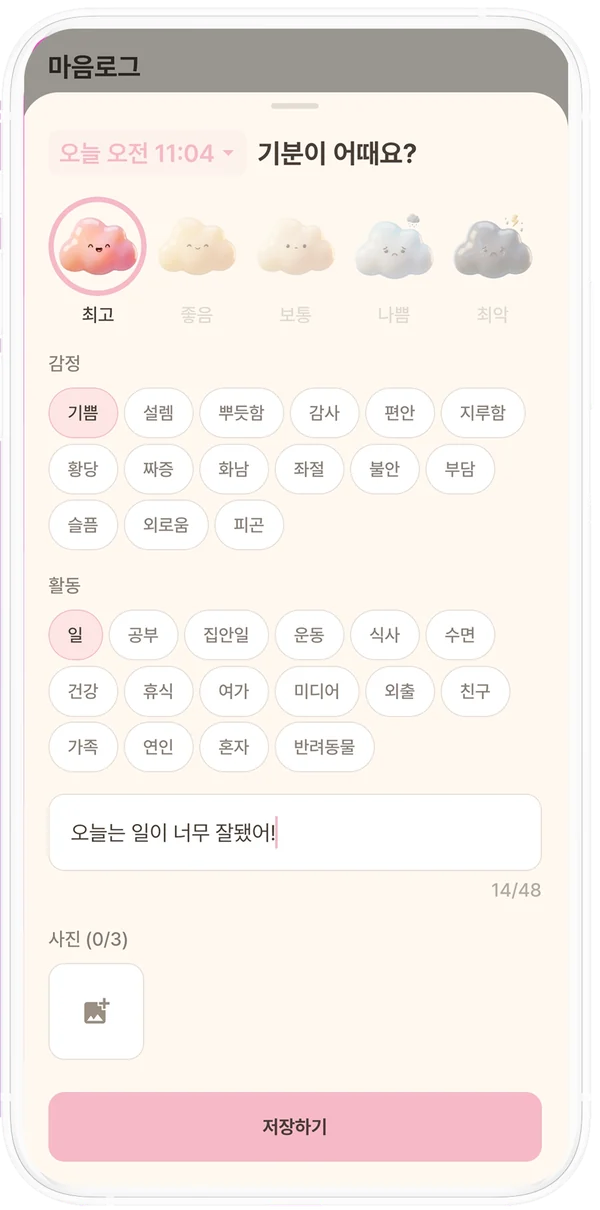
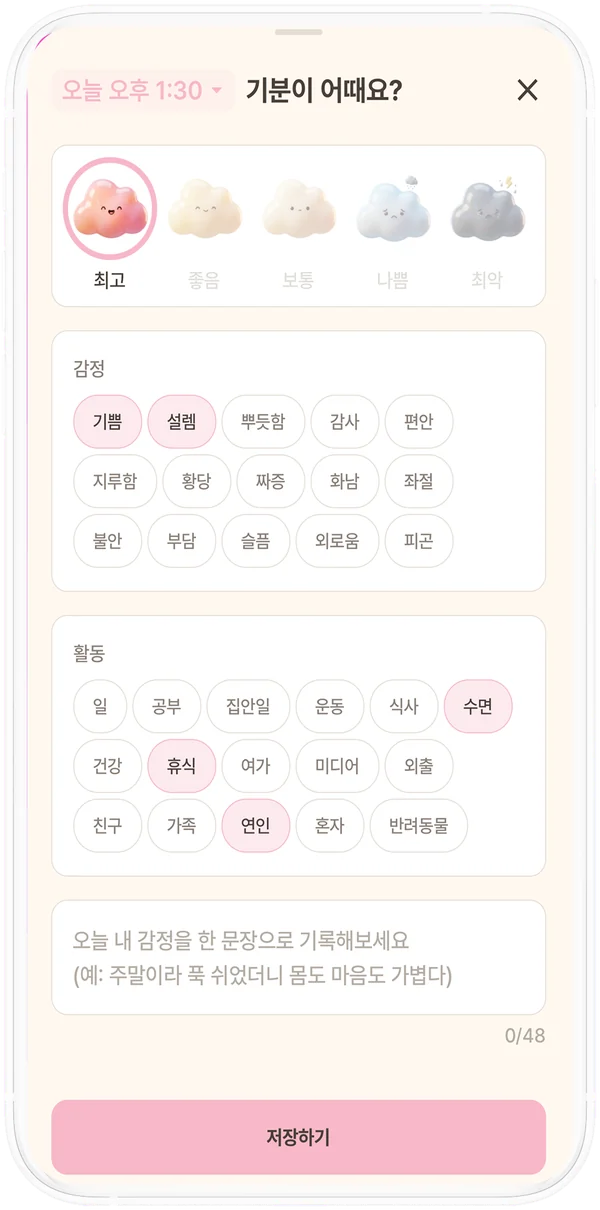
한국어 2번 화면(기록) 새 스크린샷으로 · 화면 그림에도 버전 표시
Claude-Session: https://claude.ai/code/session_017HUExyZ58Y2Jv744zBtPxR

diff --git a/ko/index.html b/ko/index.html
@@ -28,7 +28,7 @@
   <link rel="alternate" hreflang="x-default" href="https://mauvelabsinc.com/">
   <link rel="preload" href="../assets/fraunces.woff2" as="font" type="font/woff2" crossorigin>
   <link rel="stylesheet" href="https://cdn.jsdelivr.net/gh/orioncactus/pretendard@v1.3.9/dist/web/variable/pretendardvariable-dynamic-subset.min.css">
-  <link rel="stylesheet" href="../assets/site-v2.css?v=18">
+  <link rel="stylesheet" href="../assets/site-v2.css?v=19">
 </head>
 <body>
 <header class="nav wrap">
@@ -48,15 +48,15 @@
       <h1>지금 내 기분, <em>가볍게</em> 남겨요.</h1>
       <p class="lede">몽글이 한 번 누르고 기분만 고르면 끝이에요. 더 쓰고 싶은 날엔 짧은 글이나 사진도 붙여 봐요. 광고도, 부담도 없어요.</p>
       <div class="badges">
-        <a href="https://apps.apple.com/app/id6814691795" aria-label="App Store에서 다운로드"><img src="../img/ko/badge-app-store.svg?v=18" alt="App Store에서 다운로드" height="50"></a>
-        <a href="https://play.google.com/store/apps/details?id=com.mauvelabs.maeumlog" aria-label="Google Play에서 다운로드하기" class="gp"><img src="../img/ko/badge-google-play.png?v=18" alt="Google Play에서 다운로드하기" height="50"></a>
+        <a href="https://apps.apple.com/app/id6814691795" aria-label="App Store에서 다운로드"><img src="../img/ko/badge-app-store.svg?v=19" alt="App Store에서 다운로드" height="50"></a>
+        <a href="https://play.google.com/store/apps/details?id=com.mauvelabs.maeumlog" aria-label="Google Play에서 다운로드하기" class="gp"><img src="../img/ko/badge-google-play.png?v=19" alt="Google Play에서 다운로드하기" height="50"></a>
       </div>
       <p class="fine">무료 다운로드 · 아이폰, 안드로이드</p>
     </div>
     <div class="hero-art" aria-hidden="true">
       <!-- 홈 화면이 주인공이고, 통계(기분 그래프)는 그 뒤 옆에 조금 작게(홈 화면을 가리지 않는다) -->
-      <img class="phone phone-side" src="../img/ko/screen-5.webp" alt="" width="210">
-      <img class="phone phone-main" src="../img/ko/screen-1.webp" alt="" width="300">
+      <img class="phone phone-side" src="../img/ko/screen-5.webp?v=19" alt="" width="210">
+      <img class="phone phone-main" src="../img/ko/screen-1.webp?v=19" alt="" width="300">
       <span class="float m1 mongle" data-anim="mongle-very-good-bounce"><img src="../img/mongle-very-good.webp" alt=""></span>
       <span class="float m2 mongle" data-anim="mongle-good-bounce"><img src="../img/mongle-good.webp" alt=""></span>
     </div>
@@ -83,9 +83,9 @@
       <div class="story-stage" aria-hidden="true">
         <figure class="polaroid stage-frame"><span class="tape stage-tape"></span>
           <div class="stage-screens">
-            <img src="../img/ko/screen-2.webp" alt="" class="on" data-step="0">
-            <img src="../img/ko/screen-4.webp" alt="" data-step="1">
-            <img src="../img/ko/screen-6.webp" alt="" data-step="2">
+            <img src="../img/ko/screen-2.webp?v=19" alt="" class="on" data-step="0">
+            <img src="../img/ko/screen-4.webp?v=19" alt="" data-step="1">
+            <img src="../img/ko/screen-6.webp?v=19" alt="" data-step="2">
           </div>
         </figure>
       </div>
@@ -94,19 +94,19 @@
           <span class="step-num">01</span>
           <h3>톡톡 눌러서 끝</h3>
           <p>기분을 고르고, 어떤 감정이었는지, 뭘 했는지 톡톡 눌러요. 글은 안 써도 괜찮아요.</p>
-          <figure class="polaroid step-shot tilt-l"><span class="tape pink"></span><img src="../img/ko/screen-2.webp" alt="마음로그에서 기분·감정·활동을 고르는 화면" width="240"></figure>
+          <figure class="polaroid step-shot tilt-l"><span class="tape pink"></span><img src="../img/ko/screen-2.webp?v=19" alt="마음로그에서 기분·감정·활동을 고르는 화면" width="240"></figure>
         </li>
         <li class="step" data-step="1">
           <span class="step-num">02</span>
           <h3>한 달이 한눈에</h3>
           <p>하루하루가 달력 위 작은 구름이 돼요. 애쓰지 않아도 내 마음 흐름이 보여요.</p>
-          <figure class="polaroid step-shot tilt-r"><span class="tape mint"></span><img src="../img/ko/screen-4.webp" alt="마음로그 달력에 담긴 한 달의 기분" width="240"></figure>
+          <figure class="polaroid step-shot tilt-r"><span class="tape mint"></span><img src="../img/ko/screen-4.webp?v=19" alt="마음로그 달력에 담긴 한 달의 기분" width="240"></figure>
         </li>
         <li class="step" data-step="2">
           <span class="step-num">03</span>
           <h3>기분 좋은 날엔 뭐가 있었을까?</h3>
           <p>통계를 보면 기분 좋은 날 주로 뭘 했는지 알 수 있어요. 친구를 만났나? 운동했나? 커피 한잔?</p>
-          <figure class="polaroid step-shot tilt-l"><span class="tape lilac"></span><img src="../img/ko/screen-6.webp" alt="기분에 영향을 준 활동을 보여 주는 마음로그 통계" width="240"></figure>
+          <figure class="polaroid step-shot tilt-l"><span class="tape lilac"></span><img src="../img/ko/screen-6.webp?v=19" alt="기분에 영향을 준 활동을 보여 주는 마음로그 통계" width="240"></figure>
         </li>
       </ol>
     </div>
@@ -146,8 +146,8 @@
     <span class="mongle cta-mongle" data-anim="mongle-normal-idle"><img src="../img/mongle-normal.webp" alt="" width="180"></span>
     <h2>오늘은 나한테 조금만 너그럽게.</h2>
     <div class="badges center">
-      <a href="https://apps.apple.com/app/id6814691795" aria-label="App Store에서 다운로드"><img src="../img/ko/badge-app-store.svg?v=18" alt="App Store에서 다운로드" height="50"></a>
-      <a href="https://play.google.com/store/apps/details?id=com.mauvelabs.maeumlog" aria-label="Google Play에서 다운로드하기" class="gp"><img src="../img/ko/badge-google-play.png?v=18" alt="Google Play에서 다운로드하기" height="50"></a>
+      <a href="https://apps.apple.com/app/id6814691795" aria-label="App Store에서 다운로드"><img src="../img/ko/badge-app-store.svg?v=19" alt="App Store에서 다운로드" height="50"></a>
+      <a href="https://play.google.com/store/apps/details?id=com.mauvelabs.maeumlog" aria-label="Google Play에서 다운로드하기" class="gp"><img src="../img/ko/badge-google-play.png?v=19" alt="Google Play에서 다운로드하기" height="50"></a>
     </div>
   </section>
 </main>
@@ -167,7 +167,7 @@
   </div>
 <dl class="biz"><dt>상호</dt><dd>모브랩스(Mauve Labs)</dd><dt>대표자</dt><dd>주창환</dd><dt>사업자등록번호</dt><dd>485-21-02219</dd><dt>통신판매업신고번호</dt><dd>제2026-서울금천-1495호</dd><dt>주소</dt><dd>서울특별시 금천구 범안로12길 29-20, A동 301호(독산동)</dd><dt>이메일</dt><dd>mauvelabs@mauvelabsinc.com</dd></dl><p class="legal">© 2026 모브랩스</p>
 </footer>
-<script src="../assets/scroll.js?v=18"></script>
+<script src="../assets/scroll.js?v=19"></script>
 <script src="../assets/lottie_light.min.js"></script>
 <script>
 /* 몽글이 애니메이션 — 앱과 같은 Lottie(maeumlog-rn assets/animations)를 웹용으로 줄인 것.
@@ -181,7 +181,7 @@
   document.querySelectorAll('.mongle[data-anim]').forEach(function (el, i) {
     var box = document.createElement('span'); box.className = 'mongle-anim'; el.appendChild(box);
     var a = lottie.loadAnimation({ container: box, renderer: 'svg', loop: true, autoplay: !io,
-      path: '../anim/' + el.dataset.anim + '.json?v=18', rendererSettings: { preserveAspectRatio: 'xMidYMid meet' } });
+      path: '../anim/' + el.dataset.anim + '.json?v=19', rendererSettings: { preserveAspectRatio: 'xMidYMid meet' } });
     a.addEventListener('DOMLoaded', function () {
       a.goToAndStop((i * 17) % a.totalFrames, true); /* 같은 몽글이가 똑같이 움직이지 않게 시작 프레임을 엇갈린다 */
       el.classList.add('is-anim'); el._anim = a; if (io) io.observe(el); else a.play();

diff --git a/index.html b/index.html
@@ -28,7 +28,7 @@
   <link rel="alternate" hreflang="x-default" href="https://mauvelabsinc.com/">
   <link rel="preload" href="assets/fraunces.woff2" as="font" type="font/woff2" crossorigin>
   <link rel="stylesheet" href="https://cdn.jsdelivr.net/gh/orioncactus/pretendard@v1.3.9/dist/web/variable/pretendardvariable-dynamic-subset.min.css">
-  <link rel="stylesheet" href="assets/site-v2.css?v=18">
+  <link rel="stylesheet" href="assets/site-v2.css?v=19">
 </head>
 <body>
 <header class="nav wrap">
@@ -48,15 +48,15 @@
       <h1>A little diary for how you're <em>actually</em> feeling.</h1>
       <p class="lede">Tap Mongle, pick how you feel, and that's it. Want to say more? Add a note or a photo. No ads, no pressure.</p>
       <div class="badges">
-        <a href="https://apps.apple.com/app/id6814691795" aria-label="Download on the App Store"><img src="img/badge-app-store.svg?v=18" alt="Download on the App Store" height="50"></a>
-        <a href="https://play.google.com/store/apps/details?id=com.mauvelabs.maeumlog" aria-label="Get it on Google Play" class="gp"><img src="img/badge-google-play.png?v=18" alt="Get it on Google Play" height="50"></a>
+        <a href="https://apps.apple.com/app/id6814691795" aria-label="Download on the App Store"><img src="img/badge-app-store.svg?v=19" alt="Download on the App Store" height="50"></a>
+        <a href="https://play.google.com/store/apps/details?id=com.mauvelabs.maeumlog" aria-label="Get it on Google Play" class="gp"><img src="img/badge-google-play.png?v=19" alt="Get it on Google Play" height="50"></a>
       </div>
       <p class="fine">Free to download · iPhone and Android</p>
     </div>
     <div class="hero-art" aria-hidden="true">
       <!-- 홈 화면이 주인공이고, 통계(기분 그래프)는 그 뒤 옆에 조금 작게(홈 화면을 가리지 않는다) -->
-      <img class="phone phone-side" src="img/screen-5.webp" alt="" width="210">
-      <img class="phone phone-main" src="img/screen-1.webp" alt="" width="300">
+      <img class="phone phone-side" src="img/screen-5.webp?v=19" alt="" width="210">
+      <img class="phone phone-main" src="img/screen-1.webp?v=19" alt="" width="300">
       <span class="float m1 mongle" data-anim="mongle-very-good-bounce"><img src="img/mongle-very-good.webp" alt=""></span>
       <span class="float m2 mongle" data-anim="mongle-good-bounce"><img src="img/mongle-good.webp" alt=""></span>
     </div>
@@ -83,9 +83,9 @@
       <div class="story-stage" aria-hidden="true">
         <figure class="polaroid stage-frame"><span class="tape stage-tape"></span>
           <div class="stage-screens">
-            <img src="img/screen-2.webp" alt="" class="on" data-step="0">
-            <img src="img/screen-4.webp" alt="" data-step="1">
-            <img src="img/screen-6.webp" alt="" data-step="2">
+            <img src="img/screen-2.webp?v=19" alt="" class="on" data-step="0">
+            <img src="img/screen-4.webp?v=19" alt="" data-step="1">
+            <img src="img/screen-6.webp?v=19" alt="" data-step="2">
           </div>
         </figure>
       </div>
@@ -94,19 +94,19 @@
           <span class="step-num">01</span>
           <h3>Check in fast</h3>
           <p>Pick a mood, then tap how you felt and what you did. Writing is totally optional.</p>
-          <figure class="polaroid step-shot tilt-l"><span class="tape pink"></span><img src="img/screen-2.webp" alt="Choosing a mood, feelings and activities in Maeumlog" width="240"></figure>
+          <figure class="polaroid step-shot tilt-l"><span class="tape pink"></span><img src="img/screen-2.webp?v=19" alt="Choosing a mood, feelings and activities in Maeumlog" width="240"></figure>
         </li>
         <li class="step" data-step="1">
           <span class="step-num">02</span>
           <h3>See your month at a glance</h3>
           <p>Each day turns into a little cloud on your calendar, so patterns pop out without you even trying.</p>
-          <figure class="polaroid step-shot tilt-r"><span class="tape mint"></span><img src="img/screen-4.webp" alt="A month of moods on the Maeumlog calendar" width="240"></figure>
+          <figure class="polaroid step-shot tilt-r"><span class="tape mint"></span><img src="img/screen-4.webp?v=19" alt="A month of moods on the Maeumlog calendar" width="240"></figure>
         </li>
         <li class="step" data-step="2">
           <span class="step-num">03</span>
           <h3>Find out what makes your day better</h3>
           <p>Your stats show what's usually going on when you feel good. Seeing friends? Working out? Coffee?</p>
-          <figure class="polaroid step-shot tilt-l"><span class="tape lilac"></span><img src="img/screen-6.webp" alt="Maeumlog stats showing what lifts your mood" width="240"></figure>
+          <figure class="polaroid step-shot tilt-l"><span class="tape lilac"></span><img src="img/screen-6.webp?v=19" alt="Maeumlog stats showing what lifts your mood" width="240"></figure>
         </li>
       </ol>
     </div>
@@ -146,8 +146,8 @@
     <span class="mongle cta-mongle" data-anim="mongle-normal-idle"><img src="img/mongle-normal.webp" alt="" width="180"></span>
     <h2>Go easy on yourself today.</h2>
     <div class="badges center">
-      <a href="https://apps.apple.com/app/id6814691795" aria-label="Download on the App Store"><img src="img/badge-app-store.svg?v=18" alt="Download on the App Store" height="50"></a>
-      <a href="https://play.google.com/store/apps/details?id=com.mauvelabs.maeumlog" aria-label="Get it on Google Play" class="gp"><img src="img/badge-google-play.png?v=18" alt="Get it on Google Play" height="50"></a>
+      <a href="https://apps.apple.com/app/id6814691795" aria-label="Download on the App Store"><img src="img/badge-app-store.svg?v=19" alt="Download on the App Store" height="50"></a>
+      <a href="https://play.google.com/store/apps/details?id=com.mauvelabs.maeumlog" aria-label="Get it on Google Play" class="gp"><img src="img/badge-google-play.png?v=19" alt="Get it on Google Play" height="50"></a>
     </div>
   </section>
 </main>
@@ -167,7 +167,7 @@
   </div>
 <p class="legal">© 2026 Mauve Labs · mauvelabs@mauvelabsinc.com · Seoul, Republic of Korea</p>
 </footer>
-<script src="assets/scroll.js?v=18"></script>
+<script src="assets/scroll.js?v=19"></script>
 <script src="assets/lottie_light.min.js"></script>
 <script>
 /* 몽글이 애니메이션 — 앱과 같은 Lottie(maeumlog-rn assets/animations)를 웹용으로 줄인 것.
@@ -181,7 +181,7 @@
   document.querySelectorAll('.mongle[data-anim]').forEach(function (el, i) {
     var box = document.createElement('span'); box.className = 'mongle-anim'; el.appendChild(box);
     var a = lottie.loadAnimation({ container: box, renderer: 'svg', loop: true, autoplay: !io,
-      path: 'anim/' + el.dataset.anim + '.json?v=18', rendererSettings: { preserveAspectRatio: 'xMidYMid meet' } });
+      path: 'anim/' + el.dataset.anim + '.json?v=19', rendererSettings: { preserveAspectRatio: 'xMidYMid meet' } });
     a.addEventListener('DOMLoaded', function () {
       a.goToAndStop((i * 17) % a.totalFrames, true); /* 같은 몽글이가 똑같이 움직이지 않게 시작 프레임을 엇갈린다 */
       el.classList.add('is-anim'); el._anim = a; if (io) io.observe(el); else a.play();

diff --git a/templates/page.html b/templates/page.html
@@ -53,8 +53,8 @@
     </div>
     <div class="hero-art" aria-hidden="true">
       <!-- 홈 화면이 주인공이고, 통계(기분 그래프)는 그 뒤 옆에 조금 작게(홈 화면을 가리지 않는다) -->
-      <img class="phone phone-side" src="{{b}}{{shot_dir}}screen-5.webp" alt="" width="210">
-      <img class="phone phone-main" src="{{b}}{{shot_dir}}screen-1.webp" alt="" width="300">
+      <img class="phone phone-side" src="{{b}}{{shot_dir}}screen-5.webp?v={{v}}" alt="" width="210">
+      <img class="phone phone-main" src="{{b}}{{shot_dir}}screen-1.webp?v={{v}}" alt="" width="300">
       <span class="float m1 mongle" data-anim="mongle-very-good-bounce"><img src="{{b}}img/mongle-very-good.webp" alt=""></span>
       <span class="float m2 mongle" data-anim="mongle-good-bounce"><img src="{{b}}img/mongle-good.webp" alt=""></span>
     </div>
@@ -81,9 +81,9 @@
       <div class="story-stage" aria-hidden="true">
         <figure class="polaroid stage-frame"><span class="tape stage-tape"></span>
           <div class="stage-screens">
-            <img src="{{b}}{{shot_dir}}screen-2.webp" alt="" class="on" data-step="0">
-            <img src="{{b}}{{shot_dir}}screen-4.webp" alt="" data-step="1">
-            <img src="{{b}}{{shot_dir}}screen-6.webp" alt="" data-step="2">
+            <img src="{{b}}{{shot_dir}}screen-2.webp?v={{v}}" alt="" class="on" data-step="0">
+            <img src="{{b}}{{shot_dir}}screen-4.webp?v={{v}}" alt="" data-step="1">
+            <img src="{{b}}{{shot_dir}}screen-6.webp?v={{v}}" alt="" data-step="2">
           </div>
         </figure>
       </div>
@@ -92,19 +92,19 @@
           <span class="step-num">01</span>
           <h3>{{step_1_title}}</h3>
           <p>{{step_1_body}}</p>
-          <figure class="polaroid step-shot tilt-l"><span class="tape pink"></span><img src="{{b}}{{shot_dir}}screen-2.webp" alt="{{step_1_alt}}" width="240"></figure>
+          <figure class="polaroid step-shot tilt-l"><span class="tape pink"></span><img src="{{b}}{{shot_dir}}screen-2.webp?v={{v}}" alt="{{step_1_alt}}" width="240"></figure>
         </li>
         <li class="step" data-step="1">
           <span class="step-num">02</span>
           <h3>{{step_2_title}}</h3>
           <p>{{step_2_body}}</p>
-          <figure class="polaroid step-shot tilt-r"><span class="tape mint"></span><img src="{{b}}{{shot_dir}}screen-4.webp" alt="{{step_2_alt}}" width="240"></figure>
+          <figure class="polaroid step-shot tilt-r"><span class="tape mint"></span><img src="{{b}}{{shot_dir}}screen-4.webp?v={{v}}" alt="{{step_2_alt}}" width="240"></figure>
         </li>
         <li class="step" data-step="2">
           <span class="step-num">03</span>
           <h3>{{step_3_title}}</h3>
           <p>{{step_3_body}}</p>
-          <figure class="polaroid step-shot tilt-l"><span class="tape lilac"></span><img src="{{b}}{{shot_dir}}screen-6.webp" alt="{{step_3_alt}}" width="240"></figure>
+          <figure class="polaroid step-shot tilt-l"><span class="tape lilac"></span><img src="{{b}}{{shot_dir}}screen-6.webp?v={{v}}" alt="{{step_3_alt}}" width="240"></figure>
         </li>
       </ol>
     </div>

diff --git a/build.py b/build.py
@@ -18,7 +18,7 @@ import sys
 ROOT = os.path.dirname(os.path.abspath(__file__))
 SITE = 'https://mauvelabsinc.com/'
 # CSS·JS·애니메이션을 고치면 올린다 — 브라우저가 옛 파일을 붙들지 않게
-VERSION = '18'
+VERSION = '19'
 
 
 def load_locales():
